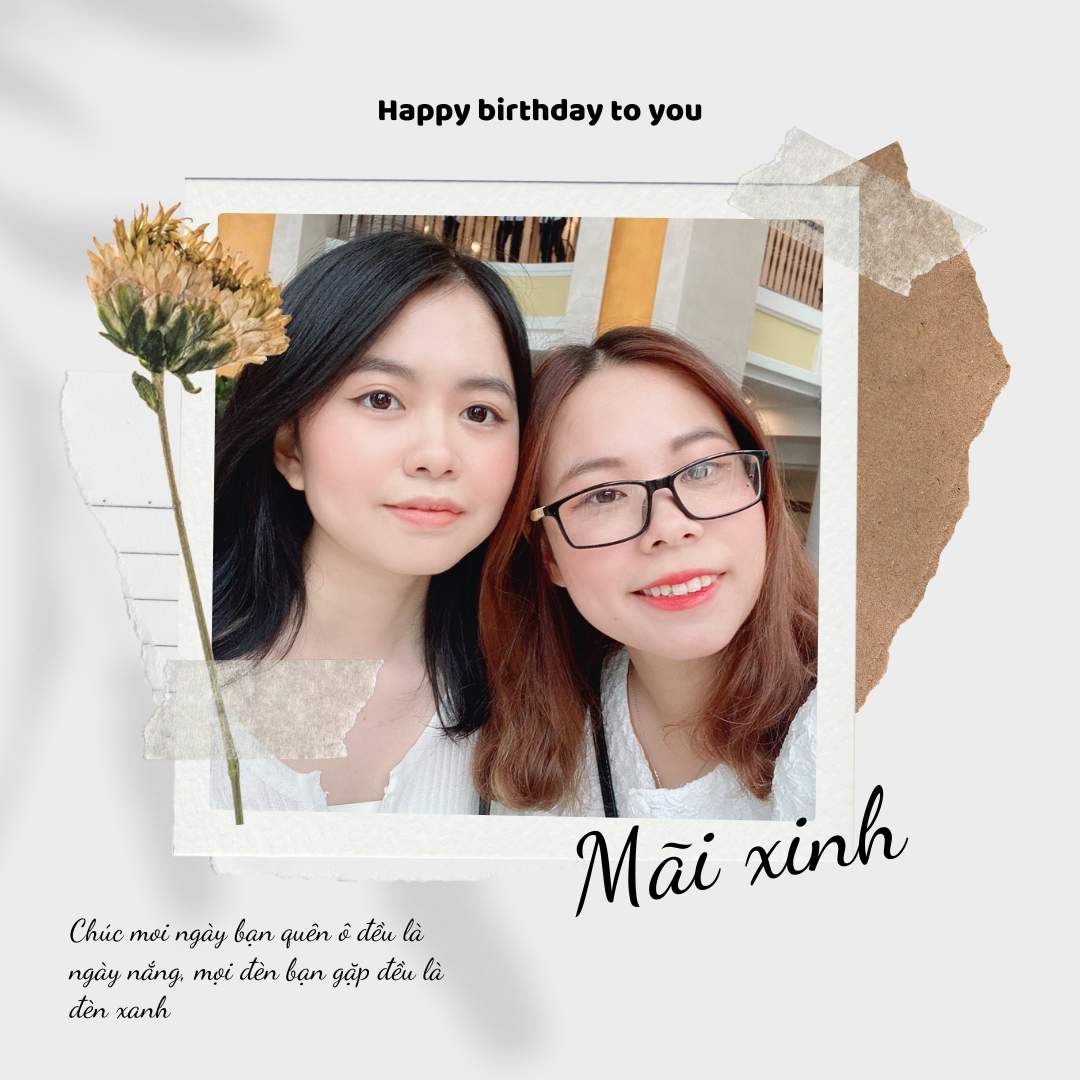
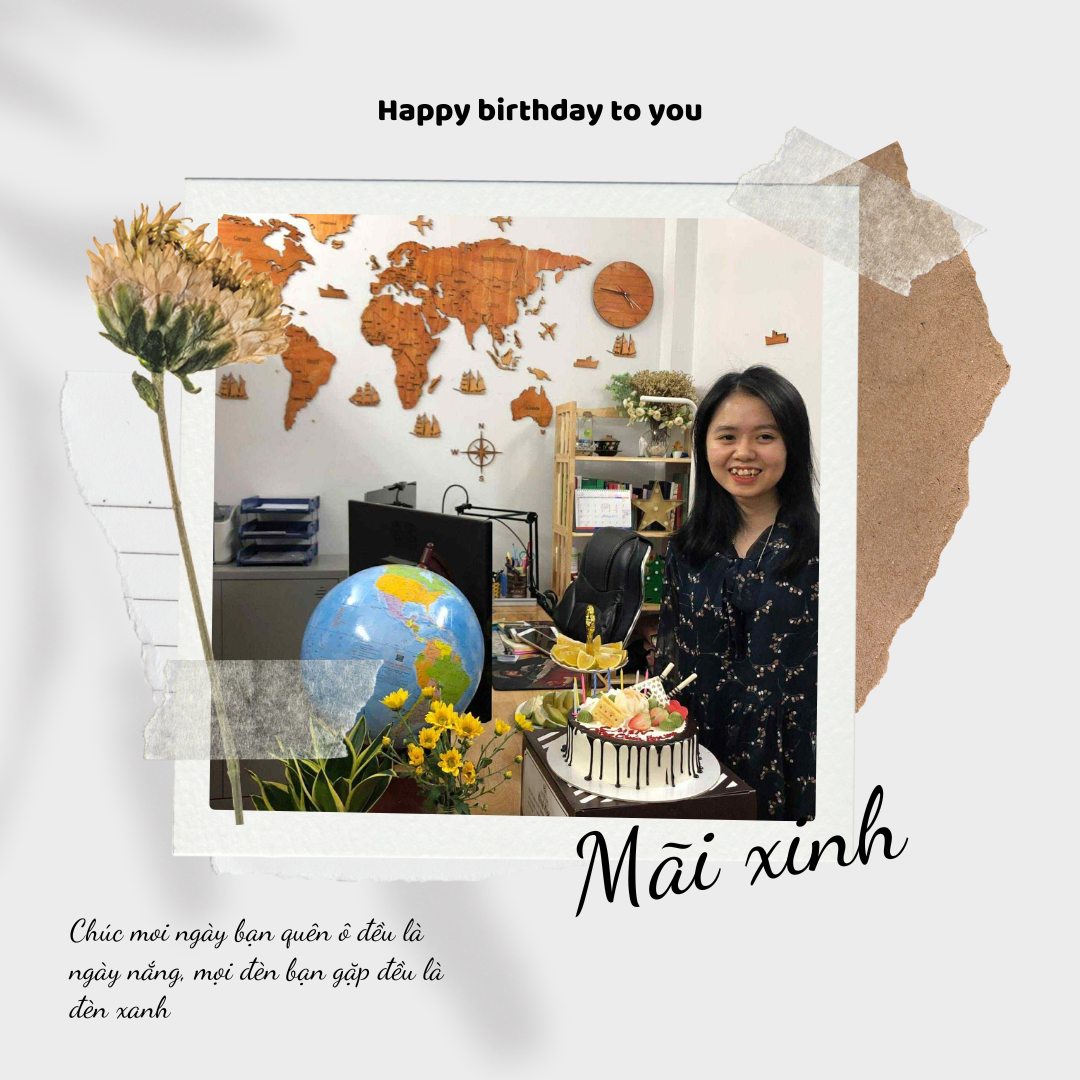
update image and texts

Changed region(s): [[0.1833, 0.1833, 0.7639, 0.7639]]

diff --git a/index.html b/index.html
@@ -5,8 +5,8 @@
   <meta charset="UTF-8">
   <meta name="viewport" content="width=device-width, initial-scale=1.0">
   <meta http-equiv="X-UA-Compatible" content="ie=edge">
-  <title>Rima's Birthday!!!</title>
-  <meta name="description" content="Happy birthday Stanley. Have a blast">
+  <title>Happy Birthday Emma Dương 💖</title>
+  <meta name="description" content="A sweet and romantic birthday wish just for you">
   <link href="https://fonts.googleapis.com/css?family=Work+Sans:300,400" rel="stylesheet">
   <link rel="stylesheet" href="style/style.css">
   <link rel="icon" href="./img/arefin-saim-high-resolution-logo-color-on-transparent-background.png">
@@ -16,117 +16,104 @@
 
 <body>
   <div class="container">
+    <!-- One -->
     <div class="one">
-      <h1 class="one">Hey
-        <span id="name">Mss Thanh Duong 😁</span>
+      <h1 class="one">Hey,
+        <span id="name">sweet girl 😍</span>
       </h1>
-      <p class="two" id="greetingText"><b>I'm glad you came, My Golden Bird !</b></p>
+      <p class="two" id="greetingText"><b>I’m so happy you’re here — today the world feels a little brighter, just like you.</b></p>
     </div>
+
+    <!-- Three -->
     <div class="three">
-      <p>It's Your birthday!!! 🥳</p>
-      <p>I know but I'm late.  sorry___</p>
+      <p>It’s your special day! 🥳</p>
+      <p>I know I’m a bit late... but my heart never is when it comes to you 💖</p>
     </div>
+
+    <!-- Four -->
     <div class="four">
       <div class="text-box">
-        <p class="hbd-chatbox">Today is the birthday of the most beautiful girl in the world?...</p>
-        <p class="fake-btn">Send</p>
+        <p class="hbd-chatbox">Guess what? Today is the day the most amazing girl came into this world…</p>
+        <p class="fake-btn">Send 💌</p>
       </div>
     </div>
+
+    <!-- Five -->
     <div class="five">
-      <p class="idea-1">Yes .. Her name is <strong>Rima</strong> </p>
-      <p class="idea-2">She owns the most sacred heart.</p>
-      <p class="idea-3">I realised And I want to walk Holding her hand for the rest of my
-        <strong>Life</strong>.
-      </p>
-      <p class="idea-4">Because,</p>
-      <p class="idea-5">She is in the left rib of my chest. 😉
-        <span>:)</span>
-      </p>
+      <p class="idea-1">Yes, that’s <strong>you</strong> — the one who can make the clouds fade just by smiling.</p>
+      <p class="idea-2">You have a heart so soft and strong, it makes everything feel right.</p>
+      <p class="idea-3">Wait! There's a truth.<br> Maybe, you don't know</p>
+      <p class="idea-4">You're...</p>
+      <p class="idea-5">Petite, cute, admirable girl….💓</p>
       <p class="idea-6">
-        <span>B</span>
-        <span>A</span>
-        <span>B</span>
-        <span>Y</span>
+        <span>E</span>
+        <span>m</span>
+        <span>m</span>
+        <span>a</span>
+        <span> </span>
+        <span>D</span>
+        <span>U</span>
+        <span>O</span>
+        <span>N</span>
+        <span>G</span>
       </p>
     </div>
+
+    <!-- Six -->
     <div class="six">
-      <h3 class="wish-hbd">Happy-Birthday-to-you!</h3>
+      <h3 class="wish-hbd">Happy - Birthday - to - you!</h3>
       <img src="./img/bir 1.jpg" alt="" class="stanley-dp" id="imagePath">
       <div class="wish">
-        <h5 id="wishText">I am Always with you ;)</h5>
+        <h5 id="wishText">May your heart stay gentle, your smile stay bright, and your dreams take you where love never ends.</h5>
       </div>
     </div>
+
+    <!-- Seven (Balloons) -->
     <div class="seven">
       <div class="baloons">
-        <img src="img/ballon2.svg" alt="">
         <img src="img/ballon1.svg" alt="">
-        <img src="img/ballon3.svg" alt="">
-        <img src="img/ballon1.svg" alt="">
-        <img src="img/ballon2.svg" alt="">
-        <img src="img/ballon3.svg" alt="">
         <img src="img/ballon2.svg" alt="">
         <img src="img/ballon3.svg" alt="">
         <img src="img/ballon1.svg" alt="">
         <img src="img/ballon2.svg" alt="">
         <img src="img/ballon3.svg" alt="">
-        <img src="img/ballon2.svg" alt="">
         <img src="img/ballon1.svg" alt="">
-        <img src="img/ballon3.svg" alt="">
         <img src="img/ballon2.svg" alt="">
         <img src="img/ballon3.svg" alt="">
         <img src="img/ballon1.svg" alt="">
         <img src="img/ballon2.svg" alt="">
-        <img src="img/ballon1.svg" alt="">
-        <img src="img/ballon3.svg" alt="">
         <img src="img/ballon3.svg" alt="">
         <img src="img/ballon1.svg" alt="">
         <img src="img/ballon2.svg" alt="">
         <img src="img/ballon3.svg" alt="">
-        <img src="img/ballon2.svg" alt="">
-        <img src="img/ballon1.svg" alt="">
-        <img src="img/ballon3.svg" alt="">
-        <img src="img/ballon2.svg" alt="">
-        <img src="img/ballon3.svg" alt="">
         <img src="img/ballon1.svg" alt="">
         <img src="img/ballon2.svg" alt="">
-        <img src="img/ballon1.svg" alt="">
         <img src="img/ballon3.svg" alt="">
       </div>
     </div>
+
+    <!-- Eight (Bubbles / Circles) -->
     <div class="eight">
-      <svg viewBox="0 0 40 40" xmlns="http://www.w3.org/2000/svg">
-        <circle cx="20" cy="20" r="20" />
-      </svg>
-      <svg viewBox="0 0 40 40" xmlns="http://www.w3.org/2000/svg">
-        <circle cx="20" cy="20" r="20" />
-      </svg>
-      <svg viewBox="0 0 40 40" xmlns="http://www.w3.org/2000/svg">
-        <circle cx="20" cy="20" r="20" />
-      </svg>
-      <svg viewBox="0 0 40 40" xmlns="http://www.w3.org/2000/svg">
-        <circle cx="20" cy="20" r="20" />
-      </svg>
-      <svg viewBox="0 0 40 40" xmlns="http://www.w3.org/2000/svg">
-        <circle cx="20" cy="20" r="20" />
-      </svg>
-      <svg viewBox="0 0 40 40" xmlns="http://www.w3.org/2000/svg">
-        <circle cx="20" cy="20" r="20" />
-      </svg>
-      <svg viewBox="0 0 40 40" xmlns="http://www.w3.org/2000/svg">
-        <circle cx="20" cy="20" r="20" />
-      </svg>
-      <svg viewBox="0 0 40 40" xmlns="http://www.w3.org/2000/svg">
-        <circle cx="20" cy="20" r="20" />
-      </svg>
-      <svg viewBox="0 0 40 40" xmlns="http://www.w3.org/2000/svg">
-        <circle cx="20" cy="20" r="20" />
-      </svg>
+      <svg viewBox="0 0 40 40" xmlns="http://www.w3.org/2000/svg"><circle cx="20" cy="20" r="20" /></svg>
+      <svg viewBox="0 0 40 40" xmlns="http://www.w3.org/2000/svg"><circle cx="20" cy="20" r="20" /></svg>
+      <svg viewBox="0 0 40 40" xmlns="http://www.w3.org/2000/svg"><circle cx="20" cy="20" r="20" /></svg>
+      <svg viewBox="0 0 40 40" xmlns="http://www.w3.org/2000/svg"><circle cx="20" cy="20" r="20" /></svg>
+      <svg viewBox="0 0 40 40" xmlns="http://www.w3.org/2000/svg"><circle cx="20" cy="20" r="20" /></svg>
+      <svg viewBox="0 0 40 40" xmlns="http://www.w3.org/2000/svg"><circle cx="20" cy="20" r="20" /></svg>
+      <svg viewBox="0 0 40 40" xmlns="http://www.w3.org/2000/svg"><circle cx="20" cy="20" r="20" /></svg>
+      <svg viewBox="0 0 40 40" xmlns="http://www.w3.org/2000/svg"><circle cx="20" cy="20" r="20" /></svg>
+      <svg viewBox="0 0 40 40" xmlns="http://www.w3.org/2000/svg"><circle cx="20" cy="20" r="20" /></svg>
     </div>
+
+    <!-- Nine (Ending) -->
     <div class="nine">
-      <p>😘😘😘Sending you lot of kisess😘😘😘</p>
+      <p>I wanna send you <b>all the best wishes</b></p>
       <br><br><br>
-      <p id="replay">Click here to watch again.</p>
-      <p class="last-smile">:)</p>
+      <p>If you ever need a reason to smile, remember — how much people love you! </p>
+      <p><b>KEEP SMILLING, PLEASE!!! 💕</b></p>
+      <p>Don't forget how pretty you are!</p>
+      <p id="replay">Click here to feel it all again 🎬</p>
+      <p class="last-smile">❤</p>
     </div>
   </div>
 </body>

diff --git a/style/style.css b/style/style.css
@@ -284,7 +284,7 @@ body {
   }
 
   .idea-6 span {
-    font-size: 10rem;
+    font-size: 6rem;
   }
 
   .six .hat {
